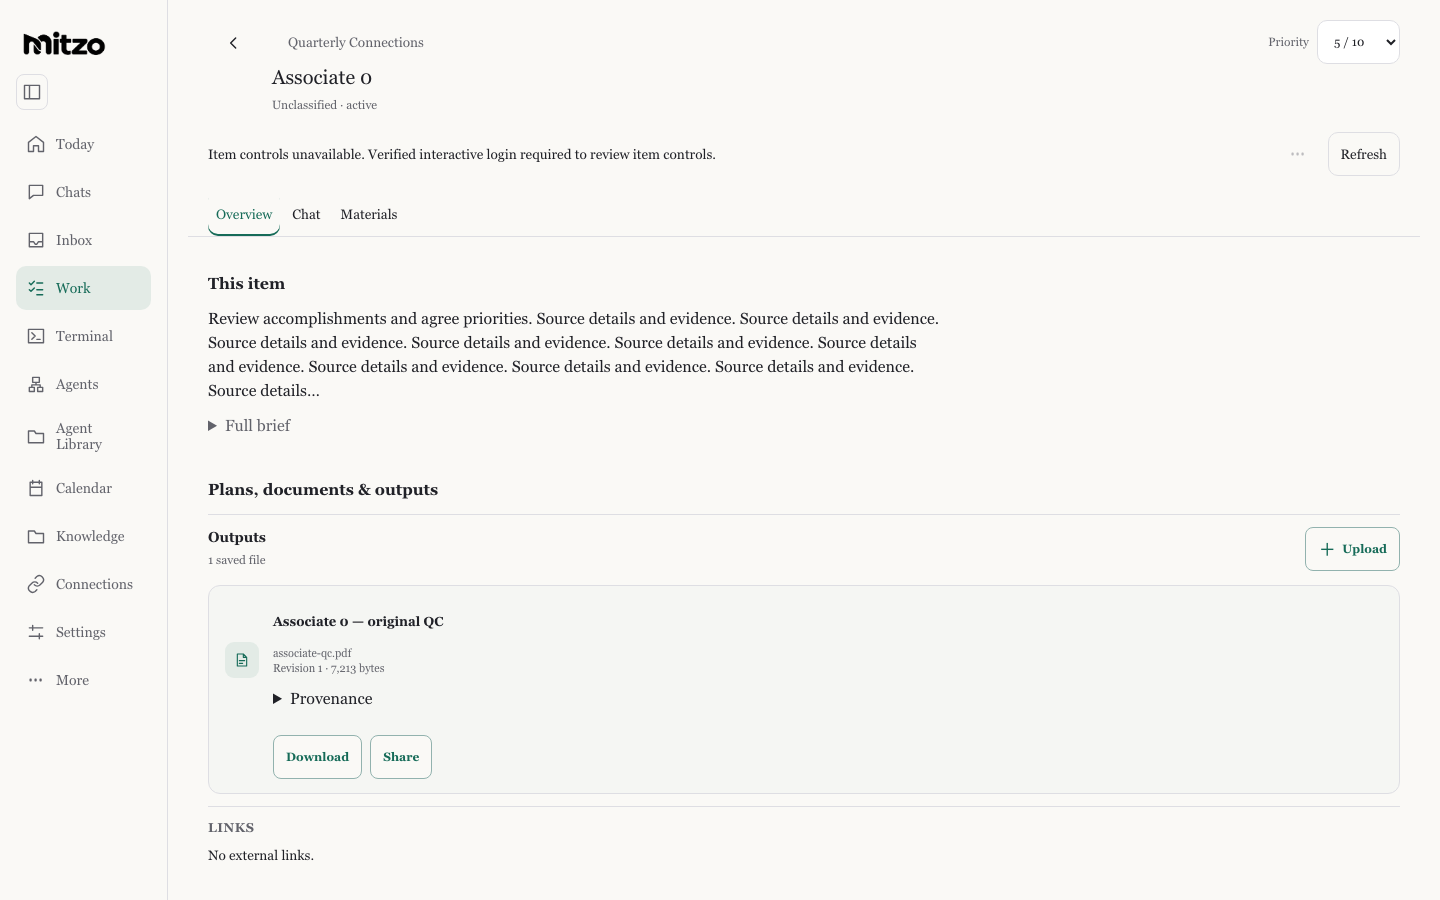
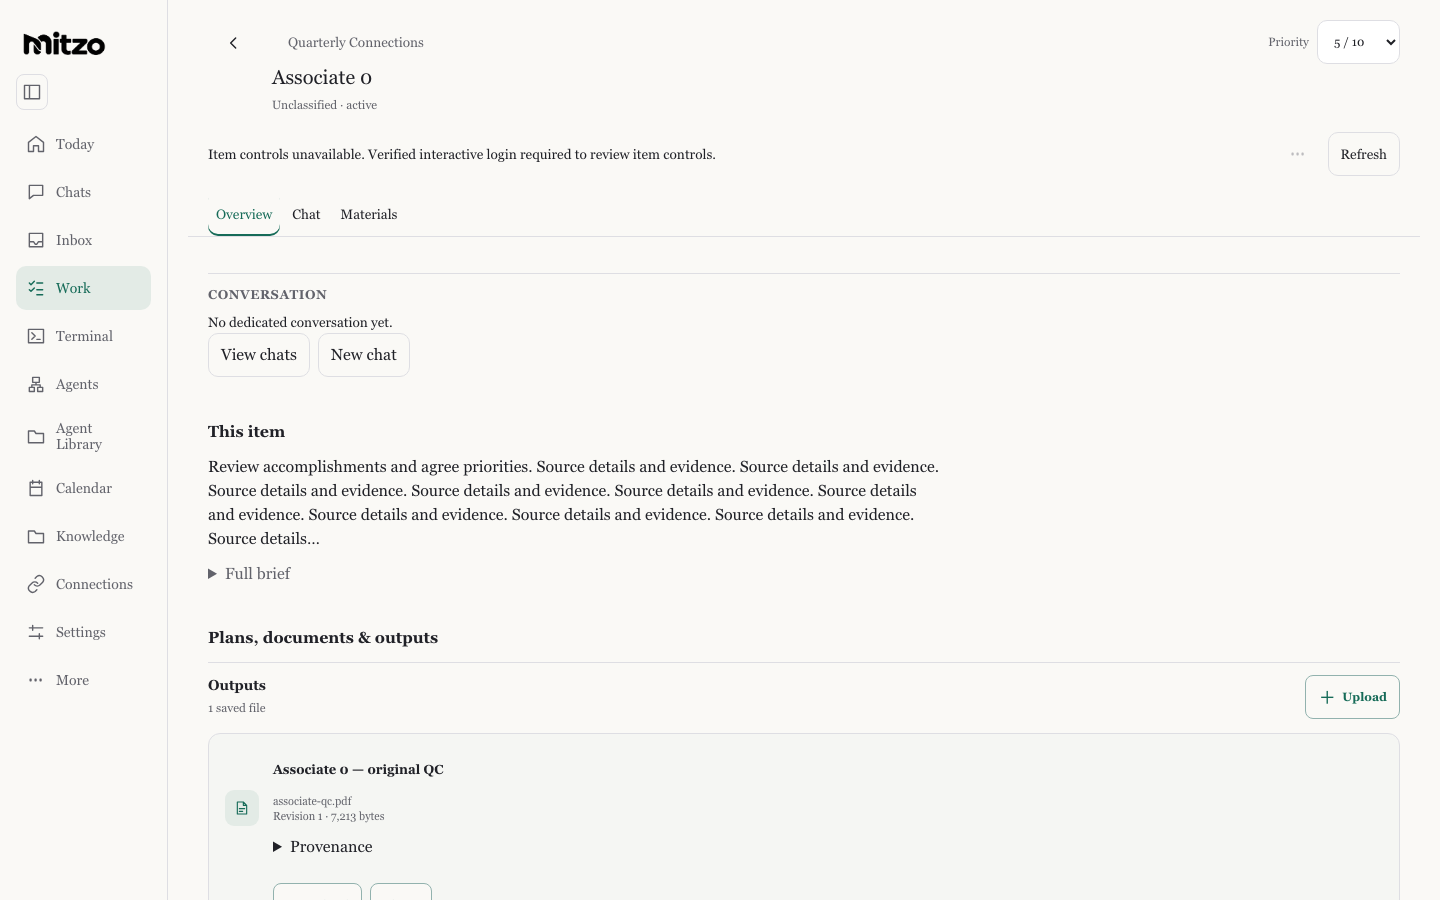
fix(telos): expose ordinary chat setup for unclassified report items

diff --git a/frontend/src/components/TelosItemRoleEntries.tsx b/frontend/src/components/TelosItemRoleEntries.tsx
@@ -11,9 +11,11 @@ const api = new TelosWorkApiClient(apiFetch);
 export function TelosItemRoleEntries({
   itemId,
   onOrdinaryRoles,
+  onOpenChat,
 }: {
   itemId: string;
   onOrdinaryRoles?(itemId: string, available: boolean): void;
+  onOpenChat?(): void;
 }) {
   const navigate = useNavigate();
   const [result, setResult] = useState<{ itemId: string; work?: TelosWorkView; error?: string }>();
@@ -48,7 +50,30 @@ export function TelosItemRoleEntries({
   const work = result.work!;
   // Explicit item kind selects the existing setup role; it grants no authority.
   const role = telosWorkEntryRole(work.kind);
-  if (!role) return null;
+  if (!role) {
+    const hasDedicatedConversation = work.links.some((link) => link.role !== 'origin');
+    return (
+      <section className="todo-detail-contract" aria-label="Item conversations">
+        <h2>Conversation</h2>
+        <p>
+          {hasDedicatedConversation
+            ? 'Separate conversations are linked to this item.'
+            : 'No dedicated conversation yet.'}
+        </p>
+        <div className="home-inline-actions">
+          {onOpenChat && (
+            <button className="home-secondary" onClick={onOpenChat}>
+              View chats
+            </button>
+          )}
+          <button className="home-secondary" onClick={() => configure('advisor', 'additional')}>
+            New chat
+          </button>
+        </div>
+        {saveError && <p role="alert">{saveError}</p>}
+      </section>
+    );
+  }
   const hasOrigin =
     work.links.some((link) => link.role === 'origin') ||
     work.sources.some((source) => source.source !== null);

diff --git a/frontend/src/components/__tests__/TelosItemRoleEntries.test.tsx b/frontend/src/components/__tests__/TelosItemRoleEntries.test.tsx
@@ -18,7 +18,7 @@ function Location() {
   const location = useLocation();
   return <output data-testid="location">{location.pathname + location.search}</output>;
 }
-function fixture(kind: 'outcome' | 'work_item' | 'coordinator') {
+function fixture(kind: 'outcome' | 'work_item' | 'coordinator' | null) {
   vi.spyOn(TelosWorkApiClient.prototype, 'read').mockResolvedValue(
     TelosWorkViewSchema.parse({
       itemId: 'selected',
@@ -76,6 +76,18 @@ it('offers child advisor setup for an explicitly typed outcome with no existing 
   const location = new URL(screen.getByTestId('location').textContent!, 'https://offline.test');
   expect(location.searchParams.get('telosAdvisor')).toBe('child');
   expect(location.searchParams.get('telosRole')).toBe('advisor');
+  expect(location.searchParams.get('telosRoleMode')).toBe('additional');
+  expect(f.newSession).toHaveBeenCalledOnce();
+  expect(f.send).not.toHaveBeenCalled();
+});
+
+it('offers a separate ordinary chat for unclassified backlog work without claiming a session exists', async () => {
+  const f = fixture(null);
+  expect(await screen.findByText('No dedicated conversation yet.')).toBeTruthy();
+  fireEvent.click(screen.getByRole('button', { name: 'New chat' }));
+  const location = new URL(screen.getByTestId('location').textContent!, 'https://fixture.test');
+  expect(location.pathname).toBe('/chat');
+  expect(location.searchParams.get('telosRoleItem')).toBe('selected');
   expect(location.searchParams.get('telosRoleMode')).toBe('additional');
   expect(f.newSession).toHaveBeenCalledOnce();
   expect(f.send).not.toHaveBeenCalled();

diff --git a/tests/offline/telos-first-use.spec.ts b/tests/offline/telos-first-use.spec.ts
@@ -151,10 +151,15 @@ for (const theme of ['dark', 'light'])
     await expect(page.getByText('10 children', { exact: true })).toBeVisible();
     expect(counts.get('/api/telos/work/collection')).toBe(1);
     expect(counts.get('/api/telos/work/records') ?? 0).toBe(0);
+    expect([...counts.keys()].some((path) => /^\/api\/telos\/work\/items\/[^/]+$/.test(path))).toBe(
+      false,
+    );
     await page.getByRole('button', { name: 'Associate 0', exact: true }).click();
     await expect(page.getByRole('heading', { name: 'Associate 0', exact: true })).toBeVisible();
     await expect(page.locator('.todo-detail-page:not(.telos-canonical-page)')).toHaveCount(0);
     await expect(page.getByLabel('Brief summary')).toBeVisible();
+    await expect(page.getByText('No dedicated conversation yet.', { exact: true })).toBeVisible();
+    expect(counts.get('/api/telos/work/items/associate-0')).toBe(1);
     await expect(page.getByText('Details & context', { exact: true })).toBeVisible();
     await page.screenshot({ path: info.outputPath(`telos-overview-${theme}.png`) });
     await page.getByRole('button', { name: 'Materials', exact: true }).click();

diff --git a/frontend/src/components/TelosTreeConversationEntry.tsx b/frontend/src/components/TelosTreeConversationEntry.tsx
@@ -7,10 +7,12 @@ const api = new TelosWorkApiClient(apiFetch);
 /** A workspace entry, never an allocator or a second role setup owner. */
 export function TelosTreeConversationEntry({
   itemId,
+  kind,
   refreshKey,
   onOpenChat,
 }: {
   itemId: string;
+  kind?: TelosWorkView['kind'];
   refreshKey: string | number;
   onOpenChat(): void;
 }) {
@@ -20,6 +22,7 @@ export function TelosTreeConversationEntry({
     failed?: boolean;
   }>();
   useEffect(() => {
+    if (kind === null) return;
     const controller = new AbortController();
     void api.read(itemId, controller.signal).then(
       (view) => {
@@ -30,7 +33,8 @@ export function TelosTreeConversationEntry({
       },
     );
     return () => controller.abort();
-  }, [itemId, refreshKey]);
+  }, [itemId, refreshKey, kind]);
+  if (kind === null) return <button onClick={onOpenChat}>Open chats</button>;
   if (result?.itemId !== itemId)
     return <span className="telos-node-meta">Loading conversations…</span>;
   if (result.failed) return <span className="telos-node-meta">Conversations unavailable</span>;

diff --git a/frontend/src/components/__tests__/TelosTreeConversationEntry.test.tsx b/frontend/src/components/__tests__/TelosTreeConversationEntry.test.tsx
@@ -65,3 +65,14 @@ it('does not treat an additional coordinator lead link as a current control assi
   expect(screen.getByRole('button', { name: 'View coordinator' })).toBeTruthy();
   expect(screen.queryByText('Coordinator assigned')).toBeNull();
 });
+
+it('uses a chat entry for a canonically unclassified row without making a relationship read to infer its role', async () => {
+  const read = vi.spyOn(TelosWorkApiClient.prototype, 'read');
+  const open = vi.fn();
+  render(
+    <TelosTreeConversationEntry itemId="new-report" kind={null} refreshKey={0} onOpenChat={open} />,
+  );
+  fireEvent.click(screen.getByRole('button', { name: 'Open chats' }));
+  expect(open).toHaveBeenCalledOnce();
+  expect(read).not.toHaveBeenCalled();
+});

diff --git a/frontend/src/components/TelosItemWorkspace.tsx b/frontend/src/components/TelosItemWorkspace.tsx
@@ -236,7 +236,11 @@ export function TelosItemWorkspace({
             work
           ) : (
             <>
-              <TelosItemRoleEntries key={record.itemId} itemId={record.itemId} />
+              <TelosItemRoleEntries
+                key={record.itemId}
+                itemId={record.itemId}
+                onOpenChat={() => select('Chat')}
+              />
               <section>
                 <h2>
                   {record.kind === 'coordinator'

diff --git a/frontend/src/components/TelosOutcomesTree.tsx b/frontend/src/components/TelosOutcomesTree.tsx
@@ -233,6 +233,7 @@ export function TelosOutcomesTree({
                     <span className="telos-node-status">{record.status}</span>
                     <TelosTreeConversationEntry
                       itemId={record.itemId}
+                      kind={record.kind}
                       refreshKey={refreshKey}
                       onOpenChat={() => onOpen(record.itemId, 'Chat')}
                     />

diff --git a/docs/design/ui-design-system.md b/docs/design/ui-design-system.md
@@ -2376,3 +2376,9 @@ are fetched once per open, and page changes make no file request. Import and
 inspection share one bundled worker/font configuration and run no PDF action or
 annotation layer. The canvas retains its geometry while hidden during rendering
 to prevent scrollbar/resize feedback. PDF bytes stay on the authenticated app path.
+
+Unclassified backlog items retain their canonical unknown kind. Tree rows offer
+Open chats without fetching relationship history to rediscover that kind. Item
+Overview explicitly says when no dedicated conversation is linked and exposes
+ordinary New chat setup; this prepares an unsent contextual draft and grants no
+worker assignment or model execution. The original conversation stays provenance.
